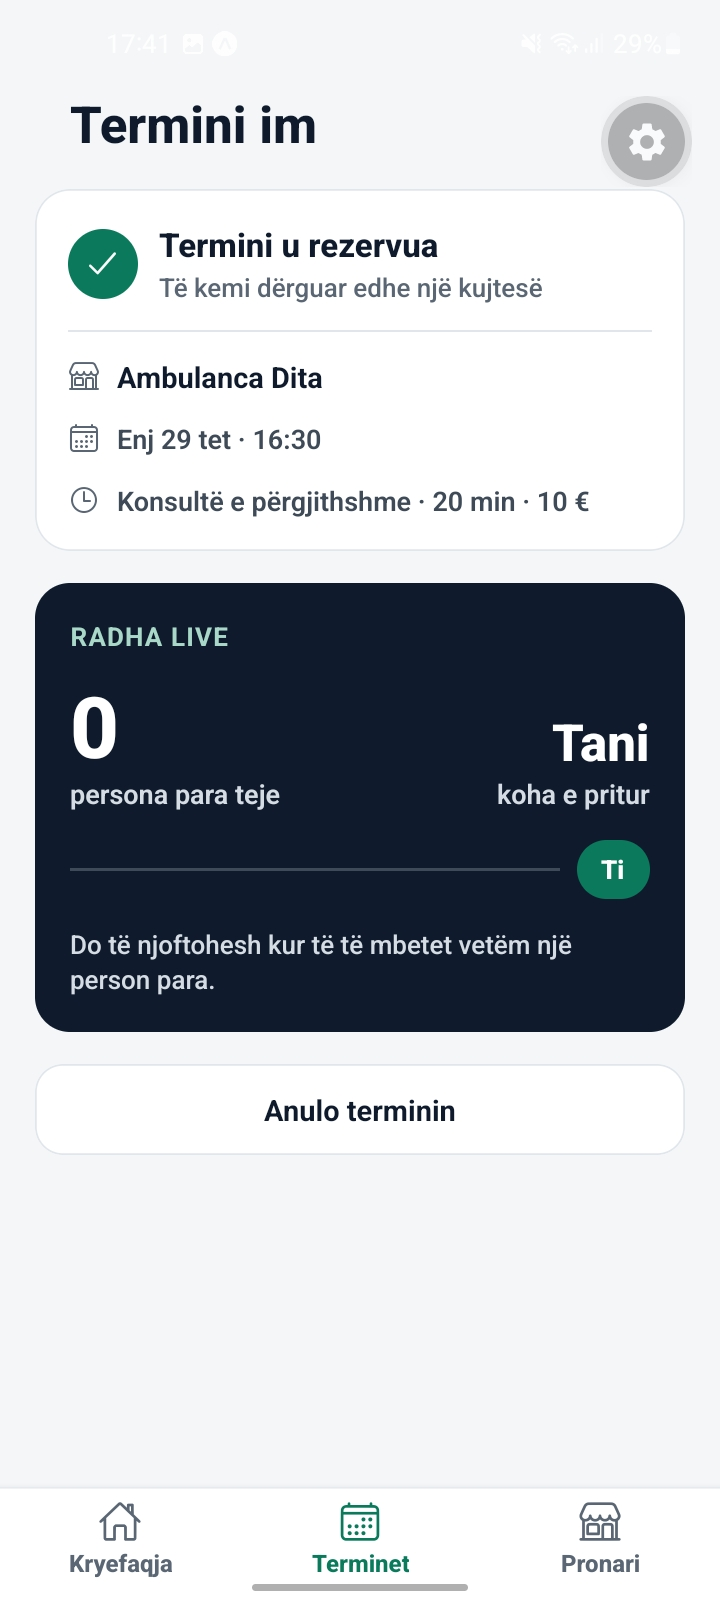
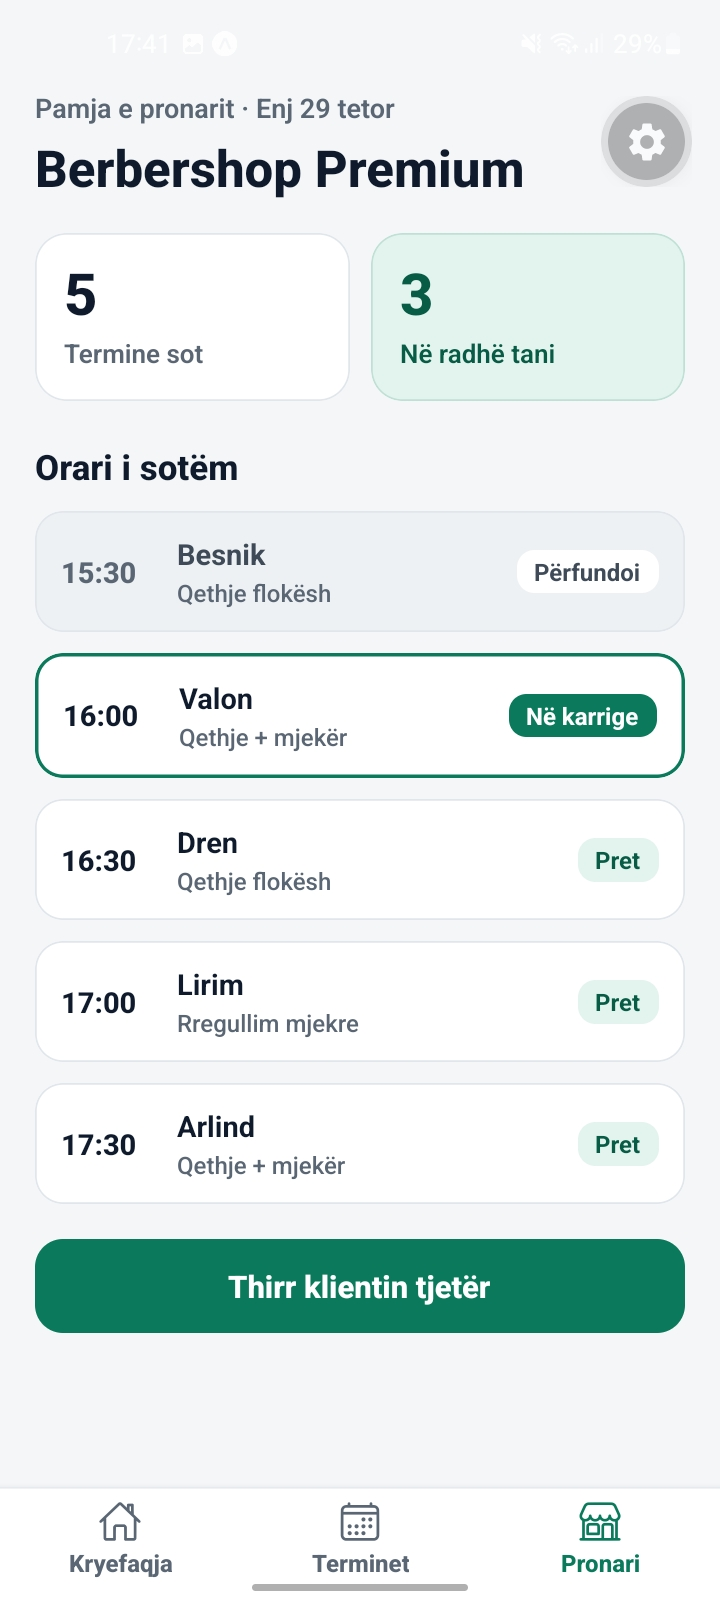
Rregullimi i fotove ne README

diff --git a/README.md b/README.md
@@ -202,10 +202,30 @@ Pamja ku pronari mund të menaxhojë terminet dhe statusin e klientëve.
 
 
 
+### 💼 3. Paneli i pronarit
+
+Pamja ku pronari mund të menaxhojë terminet dhe statusin e klientëve.
+
+![Paneli i pronarit i Rezervo Online](docs/03-Pronari.jpg)
+
+---
+
+
+
+### 💼 3. Paneli i pronarit
+
+Pamja ku pronari mund të menaxhojë terminet dhe statusin e klientëve.
+
+![Paneli i pronarit i Rezervo Online](docs/03-Pronari.jpg)
+
+---
+
+
+
 
 ## 👥 Ekipi i projektit
 
-- **Anëtari 1:** [Agnesa Hoti](https://github.com/agnesahoti/projekti-im)
+- **Anëtar-ja:** [Agnesa Hoti](https://github.com/agnesahoti/projekti-im)
 
 
 ## 🎓 Informacion rreth projektit
